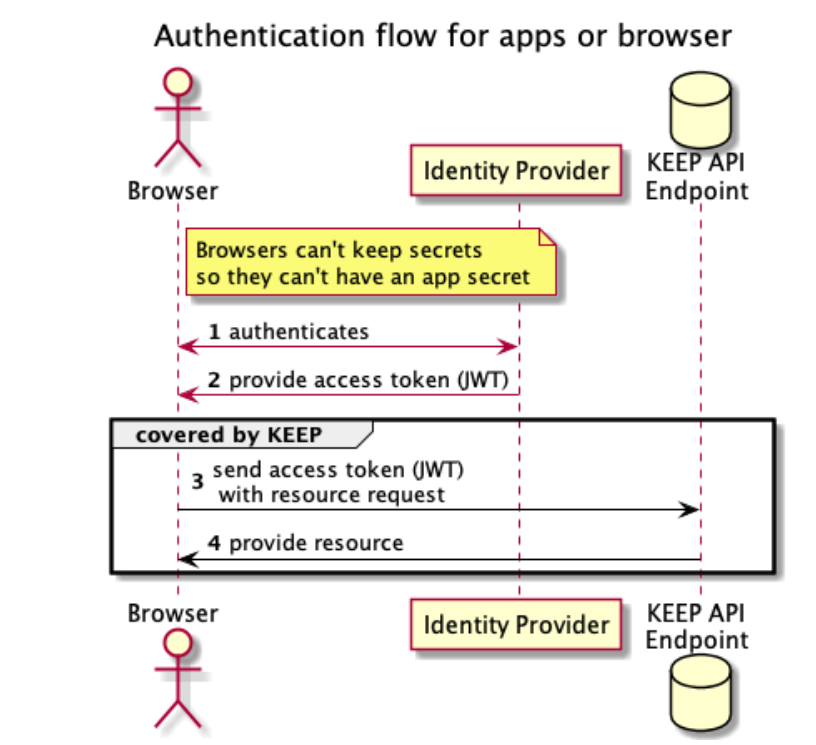
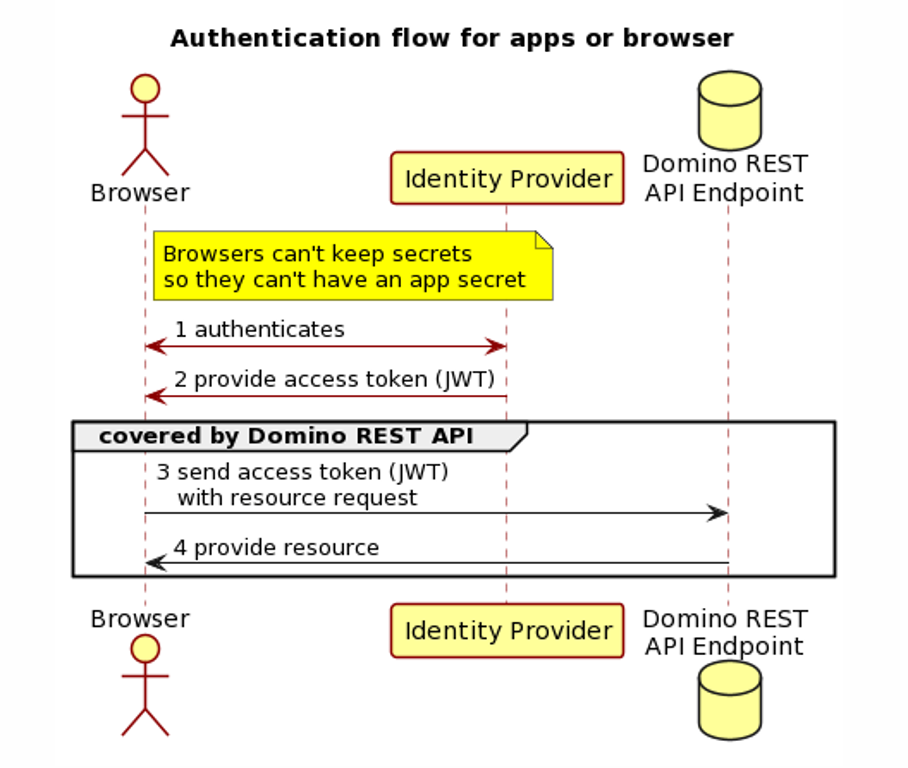
MXGO 713, 752, 807

Changed region(s): [[0.0613, 0.0926, 0.9804, 1.0], [0.1838, 0.0309, 0.9191, 0.0617]]

diff --git a/docs/topicguides/KeepFactory-and-caches.md b/docs/topicguides/KeepFactory-and-caches.md
@@ -41,25 +41,25 @@ The KeepConfig contains two main objects:
     - FormulaEngine (currently just "domino", future plan will include OpenFormula)
     - Whether or not it's active
     - UNID of the Notes Document in Domino REST API Config database
-  - ConfigInfo, indicating:
-    - Whether the database allows access from browsers (openAccess).
-    - Whether the database allows code to be submitted via the "/run/code" and "/run/codejs" endpoints (allowCode).
-    - Whether Domino Query Language (DQL) can be run against the database (dqlAccess).
-    - Formula (applied according to the formulaEngine) for more tightly constraining access to DQL (dqlAccessFormula).
-    - List of views that can be used from Domino REST API (availableViews).
-    - List of agents than can be run from Domino REST API (agents).
-    - List of stored procedures (code that the Domino REST API Administrator has added to be run) - NOT YET IMPLEMENTED (storedProcedures).
-    - List of people who must approve requests for external applications to use this database - NOT YET IMPLEMENTED (applicationAccessApprovers).
-    - Map of FormAccessModeInfo objects (formConfigs) where the modeName is the key. Every form exposed must have at least one FormAccessModeInfo for a modeName "default". Each FormAccessModeInfo contains:
-        - ModeName.
-        - List of fields exposed to read access (readAccessFields).
-        - List of fields exposed to write access (writeAccessFields).
-        - Formula (applied according to the formulaEngine) for read access (readAccessFormula).
-        - Formula (applied according to the formulaEngine) for write access (writeAccessFormula). This can include validation of the payload.
-        - Formula(s) to be applied for any GET requests for the form mode (onLoad).
-        - Formula(s) to be applied before saving any documents for this form mode (onSave).
+    - ConfigInfo, indicating:
+        - Whether the database allows access from browsers (openAccess).
+        - Whether the database allows code to be submitted via the "/run/code" and "/run/codejs" endpoints (allowCode).
+        - Whether Domino Query Language (DQL) can be run against the database (dqlAccess).
+        - Formula (applied according to the formulaEngine) for more tightly constraining access to DQL (dqlAccessFormula).
+        - List of views that can be used from Domino REST API (availableViews).
+        - List of agents than can be run from Domino REST API (agents).
+        - List of stored procedures (code that the Domino REST API Administrator has added to be run) - NOT YET IMPLEMENTED (storedProcedures).
+        - List of people who must approve requests for external applications to use this database - NOT YET IMPLEMENTED (applicationAccessApprovers).
+        - Map of FormAccessModeInfo objects (formConfigs) where the modeName is the key. Every form exposed must have at least one FormAccessModeInfo for a modeName "default". Each FormAccessModeInfo contains:
+            - ModeName
+            - List of fields exposed to read access (readAccessFields)
+            - List of fields exposed to write access (writeAccessFields)
+            - Formula (applied according to the formulaEngine) for read access (readAccessFormula)
+            - Formula (applied according to the formulaEngine) for write access (writeAccessFormula). This can include validation of the payload.
+            - Formula(s) to be applied for any GET requests for the form mode (onLoad)
+            - Formula(s) to be applied before saving any documents for this form mode (onSave)
         - Whether the Input Translation and Input Validation formulas on the underlying Notes Form should be applied (computeWithForm).
-        - Whether a POST request should be rejected if the content doesn't conform with the list of fields expected for write access (strictInput). If set to false, any fields not in the writeAccessFields are just ignored.
+        <!-- Whether a POST request should be rejected if the content doesn't conform with the list of fields expected for write access (strictInput). If set to false, any fields not in the writeAccessFields are just ignored.-->
 
 The KeepConfig is also used to:
 

diff --git a/docs/references/security/index.md b/docs/references/security/index.md
@@ -5,9 +5,9 @@ Good security isn't a one-trick pony, but a combination of factors. Here are wha
 - We use [Open Standards](../quickreference/standards.md) wherever appropriate. Standards enjoy more scrutiny from more eyeballs.
 - Domino REST API uses the [Eclipse Vert.x Framework](https://vertx.io), which supports many different versions of [SSL certificates](https://vertx.io/docs/vertx-core/java/#ssl) such as:
 
-  - [PEM](https://en.wikipedia.org/wiki/Privacy-Enhanced_Mail)
-  - [PKS](https://en.wikipedia.org/wiki/PKCS_12)
-  - [JKS](https://en.wikipedia.org/wiki/Java_KeyStore)
+    - [PEM](https://en.wikipedia.org/wiki/Privacy-Enhanced_Mail)
+    - [PKS](https://en.wikipedia.org/wiki/PKCS_12)
+    - [JKS](https://en.wikipedia.org/wiki/Java_KeyStore)
 
 - All Domino REST API access is authorized using a signed [JWT](https://jwt.io) claim. [Access control](../accesscontrol.md) settings are completely observed and honored.
 - We support public/private keys for identity provider setup.

diff --git a/docs/howto/web/httpsproxy2.md b/docs/howto/web/httpsproxy2.md
@@ -57,17 +57,17 @@ server {
      proxy_set_header X-Forwarded-Host $host;
      proxy_set_header X-Forwarded-Port $server_port;
 
-    # /api: KEEP on port 8880
+    # /api: Domino REST API on port 8880
     location /api {
         proxy_pass http://127.0.0.1:8880/api;
     }
 
-    # /admin: KEEP admin UI on port 8880
-    location /admin {
-        proxy_pass http://127.0.0.1:8880/admin;
+    # /admin: Domino REST API admin UI on port 8880
+    location /admin/ui/ {
+        proxy_pass http://127.0.0.1:8880/admin/ui/;
     }
 
-    # /keep: KEEP Homepage on port 8880
+    # /keep: Domino REST API Homepage on port 8880
     location /keep {
         proxy_pass http://127.0.0.1:8880/keep;
     }

diff --git a/docs/tutorial/swagger.md b/docs/tutorial/swagger.md
@@ -6,7 +6,7 @@ The [SwaggerUI](https://github.com/swagger-api/swagger-ui) is an OpenSource comp
 
 <!-- prettier-ignore -->
 !!! note "URLs in this tutorial"
-    The URLs in this tutorial point to a local instance of the REST API. When you want to follow it on your own remote server you need to replace `http://localhost` with your server address
+    The URLs in this tutorial point to a local instance of the Domino REST API. When you want to follow it on your own remote server, you need to replace `http://localhost` with your server address.
 
 ## Create a document with SwaggerUI
 

diff --git a/docs/.unusedtopics/securityjson.md b/docs/.unusedtopics/securityjson.md
@@ -113,3 +113,6 @@ An accepted JWT can be configured either by specifying the "providerUrl" propert
 ## Overwriting the values
 
 All values can be [overwritten](https://vertx.io/docs/vertx-config/java/#_overloading_rules) by entries in the `config.d` directory. The structure needs to be the same as in the default file, but only needs the entries you want to change.
+
+
+<!--references/security/-->

diff --git a/docs/.unusedtopics/configjson.md b/docs/.unusedtopics/configjson.md
@@ -359,3 +359,5 @@ All values can be [over written](https://vertx.io/docs/vertx-config/java/#_overl
 ```
 
 To make an NSF file or directory, defined in the JSON object, available in the list of databases available when you define a schema in the **Admin UI**, see [Enable excluded database files and directories](../../howto/database/excludeddb.md).
+
+<!--references/security/-->

diff --git a/docs/references/security/authentication.md b/docs/references/security/authentication.md
@@ -1,4 +1,4 @@
-# Auth
+# Auth*
 
 --8<-- "keepmngtURLcaution1.md"
 
